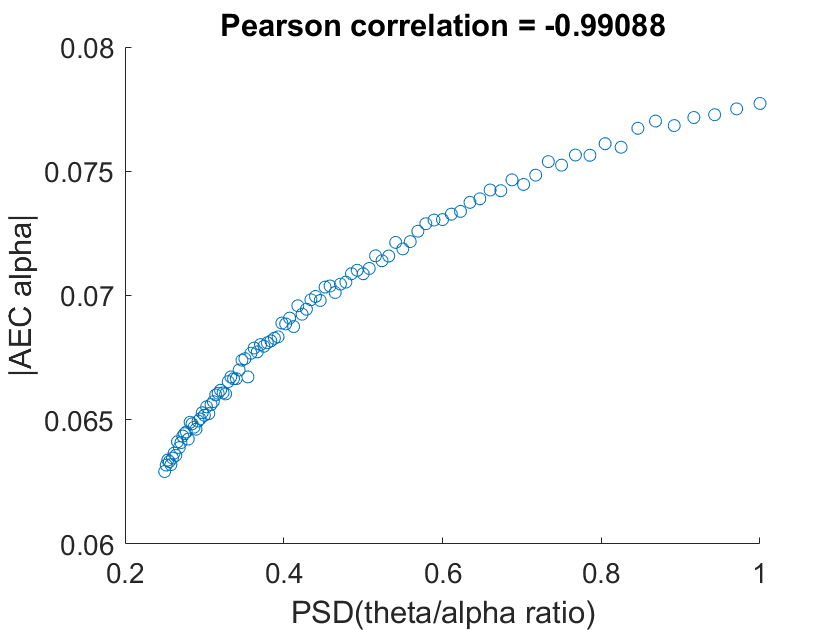
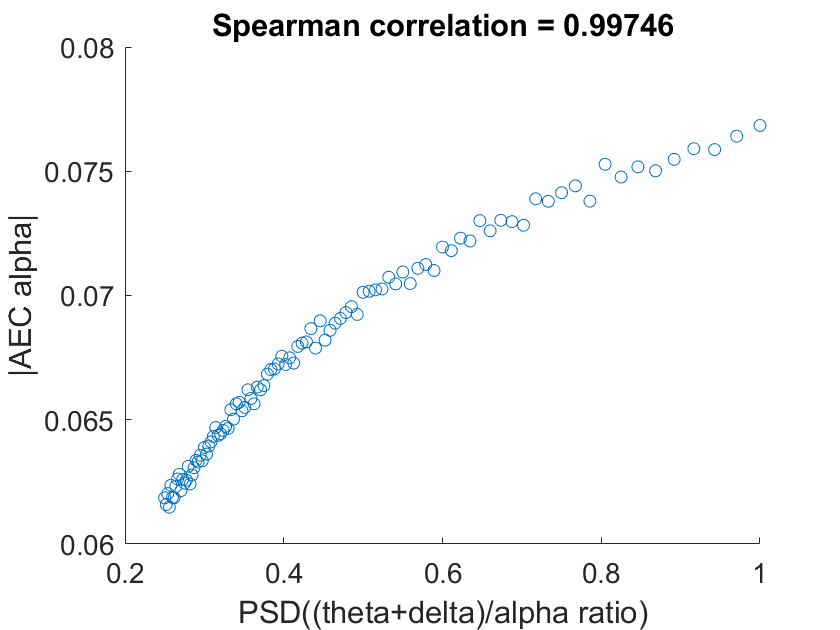
added AEC

diff --git a/test_psd_AEC.m b/test_psd_AEC.m
@@ -3,10 +3,10 @@ T = 1; % Length of timeseries in seconds
 fs = 256; % Sample rate of timeseries
 ns=round(T*fs);
 nt=10; %trials
-f0 = [6 10]; % theta frequencies
+f0 = [2 6 10]; % delta, theta, alpha frequencies
 df = 1/T;
 data=zeros(nc,ns);
-PRtot=linspace(1,4,100); % ratio of power of second frequency wrt first one
+PRtot=linspace(1,4,100); % ratio of power of last frequency wrt first two
 AEC_meas=zeros(nc,nc,length(PRtot));AEC_no_meas=AEC_meas;
 AEC_av=zeros(1,length(PRtot));AEC_no_av=AEC_av;
 iband=[8 12];
@@ -16,7 +16,7 @@ win5cyc=5*cycpersec;
 filtorder=round(fs*win5cyc);
 filtPts = fir1(filtorder, 2/fs*iband);
 for ip=1:length(PRtot)
-    rmsLevel = [1;1/sqrt(PRtot(ip))]; % RMS level
+    rmsLevel = [1;1;1/sqrt(PRtot(ip))]; % RMS level
     GxxMag = ((rmsLevel.^2)/df); % Single-Sided Power spectrum magnitude
     SxxMag = GxxMag/2; % Double-sided Power spectrum magnitude
     PSD_DoubleSided = zeros(T*fs, 1);
@@ -35,7 +35,9 @@ for ip=1:length(PRtot)
     AEC_no_av(ip)=nanmean(nanmean(nanmean(AEC_no_meas)));
 end
 %%
-figure;scatter(1./PRtot,AEC_av);xlabel('PSD(theta/alpha ratio)');ylabel('|AEC alpha|');set(gca,'FontSize',14)
-title(['Pearson correlation = ' num2str(corr2(PRtot,AEC_av))])
-figure;scatter(1./PRtot,AEC_no_av);xlabel('PSD(theta/alpha ratio)');ylabel('|AEC alpha no orth|');set(gca,'FontSize',14)
-title(['Pearson correlation = ' num2str(corr2(PRtot,AEC_no_av))])
+figure;scatter(1./PRtot,AEC_av);xlabel('PSD((theta+delta)/alpha ratio)');ylabel('|AEC alpha|');set(gca,'FontSize',14)
+c=corr((1./PRtot)',AEC_av','Type','Spearman');
+title(['Spearman correlation = ' num2str(c)]);
+figure;scatter(1./PRtot,AEC_no_av);xlabel('PSD((theta+delta)/alpha ratio)');ylabel('|AEC alpha no orth|');set(gca,'FontSize',14)
+c=corr((1./PRtot)',AEC_no_av','Type','Spearman');
+title(['Spearman correlation = ' num2str(c)])
